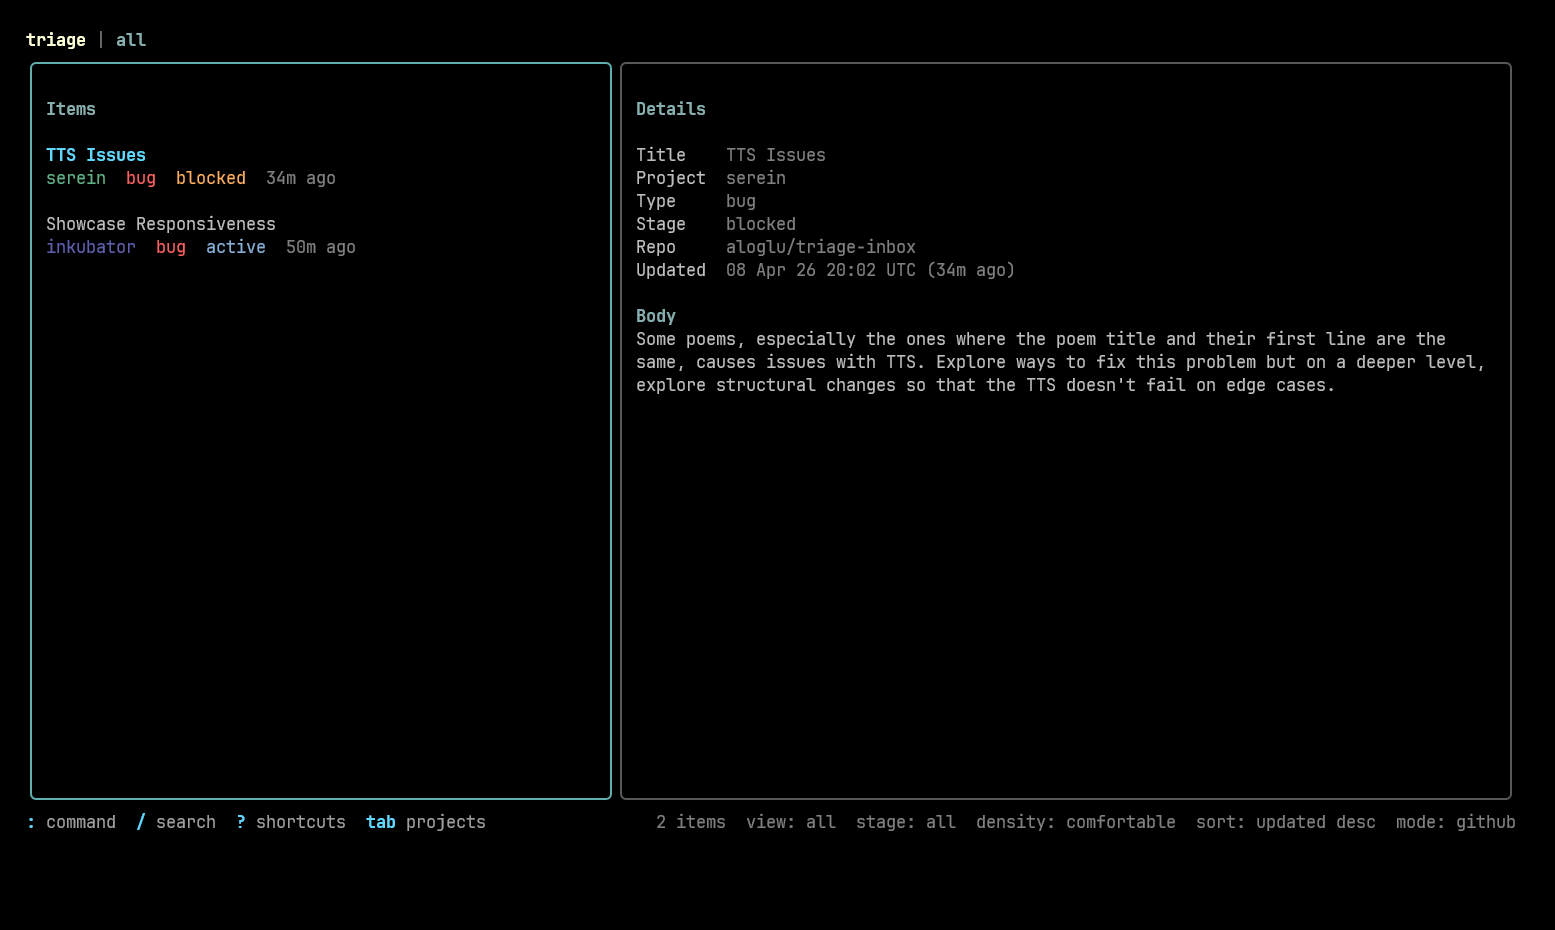
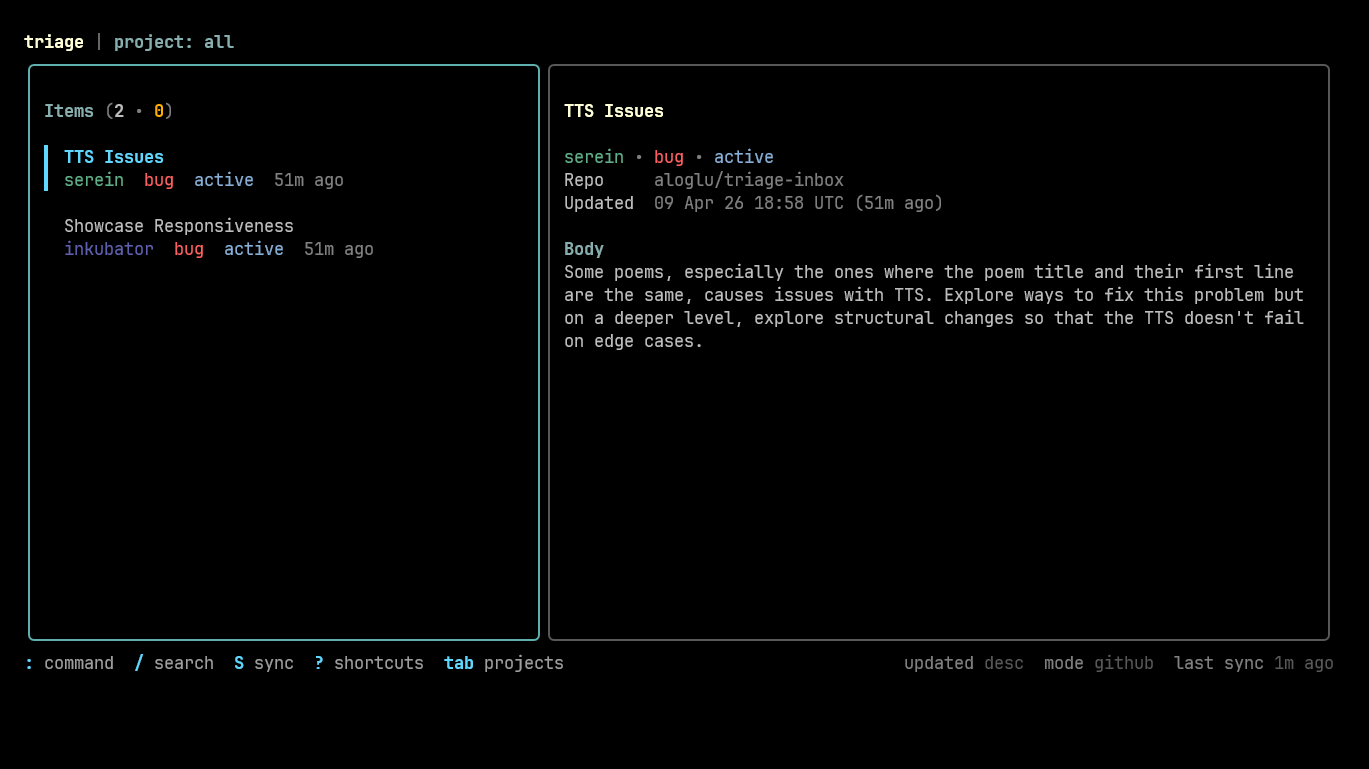
Refine item detail presentation
- promote the selected item title into the details pane header
- add a clearer active-row marker in the items pane
- move edit-field cursors to the end of frontmatter values on focus
- refresh the README screenshot to match the current UI

diff --git a/internal/app/model.go b/internal/app/model.go
@@ -1093,15 +1093,19 @@ func (m modelUI) focusFormField() (tea.Model, tea.Cmd) {
 
 	switch m.form.focusIndex {
 	case 0:
+		m.form.titleInput.CursorEnd()
 		cmd := m.form.titleInput.Focus()
 		return m, cmd
 	case 1:
+		m.form.projectInput.CursorEnd()
 		cmd := m.form.projectInput.Focus()
 		return m, cmd
 	case 2:
+		m.form.repoInput.CursorEnd()
 		cmd := m.form.repoInput.Focus()
 		return m, cmd
 	case 5:
+		m.form.bodyInput.CursorEnd()
 		cmd := m.form.bodyInput.Focus()
 		return m, cmd
 	default:
@@ -2162,10 +2166,7 @@ func (m modelUI) renderDetailPane(width, height int) string {
 }
 
 func (m modelUI) renderDetailEmptyLines() []string {
-	lines := []string{
-		m.styles.subtitle.Render("Details"),
-		"",
-	}
+	lines := []string{}
 
 	switch {
 	case m.syncing && m.config.StorageMode == config.ModeGitHub:
@@ -2615,15 +2616,12 @@ func sameLabels(left, right []string) bool {
 
 func (m modelUI) renderDetailLines(item model.Item, width int) []string {
 	now := time.Now()
-	lines := []string{m.styles.subtitle.Render("Details")}
+	lines := m.renderDetailTitleLines(item.Title, width)
 	if m.listDensity == densityComfortable {
 		lines = append(lines, "")
 	}
-	lines = append(lines, m.renderDetailMetaLines("Title", item.Title, width)...)
-	lines = append(lines, m.renderDetailMetaLines("Project", item.Project, width)...)
+	lines = append(lines, m.renderDetailIdentityLines(item, width)...)
 	lines = append(lines, m.renderDetailMetaLines("Repo", detailRepoLabel(item.Repo), width)...)
-	lines = append(lines, m.renderDetailMetaLines("Type", string(normalizeType(item.Type)), width)...)
-	lines = append(lines, m.renderDetailMetaLines("Stage", string(item.Stage), width)...)
 	lines = append(lines, m.renderDetailMetaLines("Updated", fmt.Sprintf("%s (%s)", item.UpdatedAt.Format(time.RFC822), relativeTimeLabel(now, item.UpdatedAt)), width)...)
 	if m.listDensity == densityComfortable {
 		lines = append(lines, "")
@@ -2636,6 +2634,41 @@ func (m modelUI) renderDetailLines(item model.Item, width int) []string {
 	}
 	lines = append(lines, bodyLines...)
 
+	return lines
+}
+
+func (m modelUI) renderDetailTitleLines(title string, width int) []string {
+	wrapped := wrapPlainLines(title, max(1, width))
+	if len(wrapped) == 0 {
+		wrapped = []string{""}
+	}
+	lines := make([]string, 0, len(wrapped))
+	for _, line := range wrapped {
+		lines = append(lines, m.styles.title.Render(line))
+	}
+	return lines
+}
+
+func (m modelUI) renderDetailIdentityLines(item model.Item, width int) []string {
+	projectText := m.renderProjectText(item.Project, item.Project)
+	typeText := m.renderTypeText(item.Type, false)
+	stageText := m.renderStageText(item.Stage, false)
+	separator := m.styles.muted.Render(" • ")
+	line := lipgloss.JoinHorizontal(
+		lipgloss.Left,
+		projectText,
+		separator,
+		typeText,
+		separator,
+		stageText,
+	)
+	if lipgloss.Width(line) <= width {
+		return []string{line}
+	}
+
+	lines := m.renderDetailMetaLines("Project", item.Project, width)
+	lines = append(lines, m.renderDetailMetaLines("Type", string(normalizeType(item.Type)), width)...)
+	lines = append(lines, m.renderDetailMetaLines("Stage", string(item.Stage), width)...)
 	return lines
 }
 
@@ -3168,7 +3201,11 @@ func (m modelUI) renderIssueLine(item model.Item) string {
 }
 
 func (m modelUI) renderItemRow(item model.Item, width int, selected bool) string {
-	rowWidth := max(10, width-8)
+	rowWidth := max(8, width-10)
+	marker := "  "
+	if selected {
+		marker = m.styles.selected.Render("▍ ")
+	}
 
 	title := truncate(item.Title, rowWidth)
 	if selected {
@@ -3213,7 +3250,7 @@ func (m modelUI) renderItemRow(item model.Item, width int, selected bool) string
 		metaRendered = lipgloss.JoinHorizontal(lipgloss.Left, metaRendered, sep, statusText)
 	}
 
-	return strings.Join([]string{title, metaRendered}, "\n")
+	return strings.Join([]string{marker + title, marker + metaRendered}, "\n")
 }
 
 func (m modelUI) panelStyle(base lipgloss.Style, width, height int) lipgloss.Style {

diff --git a/internal/app/layout_test.go b/internal/app/layout_test.go
@@ -195,8 +195,36 @@ func TestRenderDetailLinesShowsExactAndRelativeTimestamps(t *testing.T) {
 	if !strings.Contains(rendered, item.UpdatedAt.Format(time.RFC822)) {
 		t.Fatalf("expected detail lines to contain exact updated timestamp, got %q", rendered)
 	}
+	if !strings.Contains(rendered, "Detail item") {
+		t.Fatalf("expected detail lines to use item title as the pane header, got %q", rendered)
+	}
+	if strings.Contains(rendered, "Details") {
+		t.Fatalf("did not expect generic details heading, got %q", rendered)
+	}
 	if !strings.Contains(rendered, "(") || !strings.Contains(rendered, "ago)") {
 		t.Fatalf("expected detail lines to contain relative timestamp hints, got %q", rendered)
+	}
+}
+
+func TestRenderItemRowSelectedShowsActiveMarker(t *testing.T) {
+	m := New().(modelUI)
+	now := time.Now()
+	item := imodel.Item{
+		Title:     "Relative item",
+		Project:   "project",
+		Stage:     imodel.StageActive,
+		UpdatedAt: now.Add(-2 * time.Hour),
+		CreatedAt: now.Add(-4 * time.Hour),
+	}
+
+	selected := stripANSI(m.renderItemRow(item, 48, true))
+	if !strings.Contains(selected, "▍ Relative item") {
+		t.Fatalf("expected selected item row to show active marker, got %q", selected)
+	}
+
+	unselected := stripANSI(m.renderItemRow(item, 48, false))
+	if strings.Contains(unselected, "▍") {
+		t.Fatalf("did not expect unselected item row to show active marker, got %q", unselected)
 	}
 }
 
@@ -864,12 +892,14 @@ func TestFullViewKeepsItemMetaPositionOnFirstEdit(t *testing.T) {
 	m.projectFilter = allProjectsLabel
 	m.rebuildFiltered()
 
-	_ = m.View()
+	listWidth, _ := m.layoutWidths()
+	beforePane := stripANSI(m.renderItemsPane(listWidth, max(12, m.height-7)))
 	updated, _ := m.updateNormal(tea.KeyMsg{Type: tea.KeyRunes, Runes: []rune{'e'}})
 	got := updated.(modelUI)
+	afterPane := stripANSI(got.renderItemsPane(listWidth, max(12, got.height-7)))
 
-	beforeLine := findLineContaining(stripANSI(m.View()), "inkubator", "planned")
-	afterLine := findLineContaining(stripANSI(got.View()), "inkubator", "planned")
+	beforeLine := findLineContaining(beforePane, "inkubator", "planned")
+	afterLine := findLineContaining(afterPane, "inkubator", "planned")
 	if beforeLine == "" || afterLine == "" {
 		t.Fatalf("expected to find item meta line before and after edit transition")
 	}

diff --git a/internal/app/command_test.go b/internal/app/command_test.go
@@ -1533,6 +1533,39 @@ func TestBeginEditDefaultsRepoToMappedProjectRepo(t *testing.T) {
 	}
 }
 
+func TestFocusFormFieldMovesCursorToEndOfFrontmatterValues(t *testing.T) {
+	m := New().(modelUI)
+	m.items = []imodel.Item{{
+		Title:   "Showcase Responsiveness",
+		Project: "inkubator",
+		Repo:    "aloglu/triage-inbox",
+		Type:    imodel.TypeFeature,
+		Stage:   imodel.StagePlanned,
+	}}
+	m.beginEdit(0)
+
+	m.form.focusIndex = 0
+	focused, _ := m.focusFormField()
+	got := focused.(modelUI)
+	if got.form.titleInput.Position() != len([]rune(got.form.titleInput.Value())) {
+		t.Fatalf("title cursor = %d, want %d", got.form.titleInput.Position(), len([]rune(got.form.titleInput.Value())))
+	}
+
+	got.form.focusIndex = 1
+	focused, _ = got.focusFormField()
+	got = focused.(modelUI)
+	if got.form.projectInput.Position() != len([]rune(got.form.projectInput.Value())) {
+		t.Fatalf("project cursor = %d, want %d", got.form.projectInput.Position(), len([]rune(got.form.projectInput.Value())))
+	}
+
+	got.form.focusIndex = 2
+	focused, _ = got.focusFormField()
+	got = focused.(modelUI)
+	if got.form.repoInput.Position() != len([]rune(got.form.repoInput.Value())) {
+		t.Fatalf("repo cursor = %d, want %d", got.form.repoInput.Position(), len([]rune(got.form.repoInput.Value())))
+	}
+}
+
 func TestProjectEditUpdatesRepoWhenStillFollowingDefault(t *testing.T) {
 	m := New().(modelUI)
 	m.mode = modeEdit
